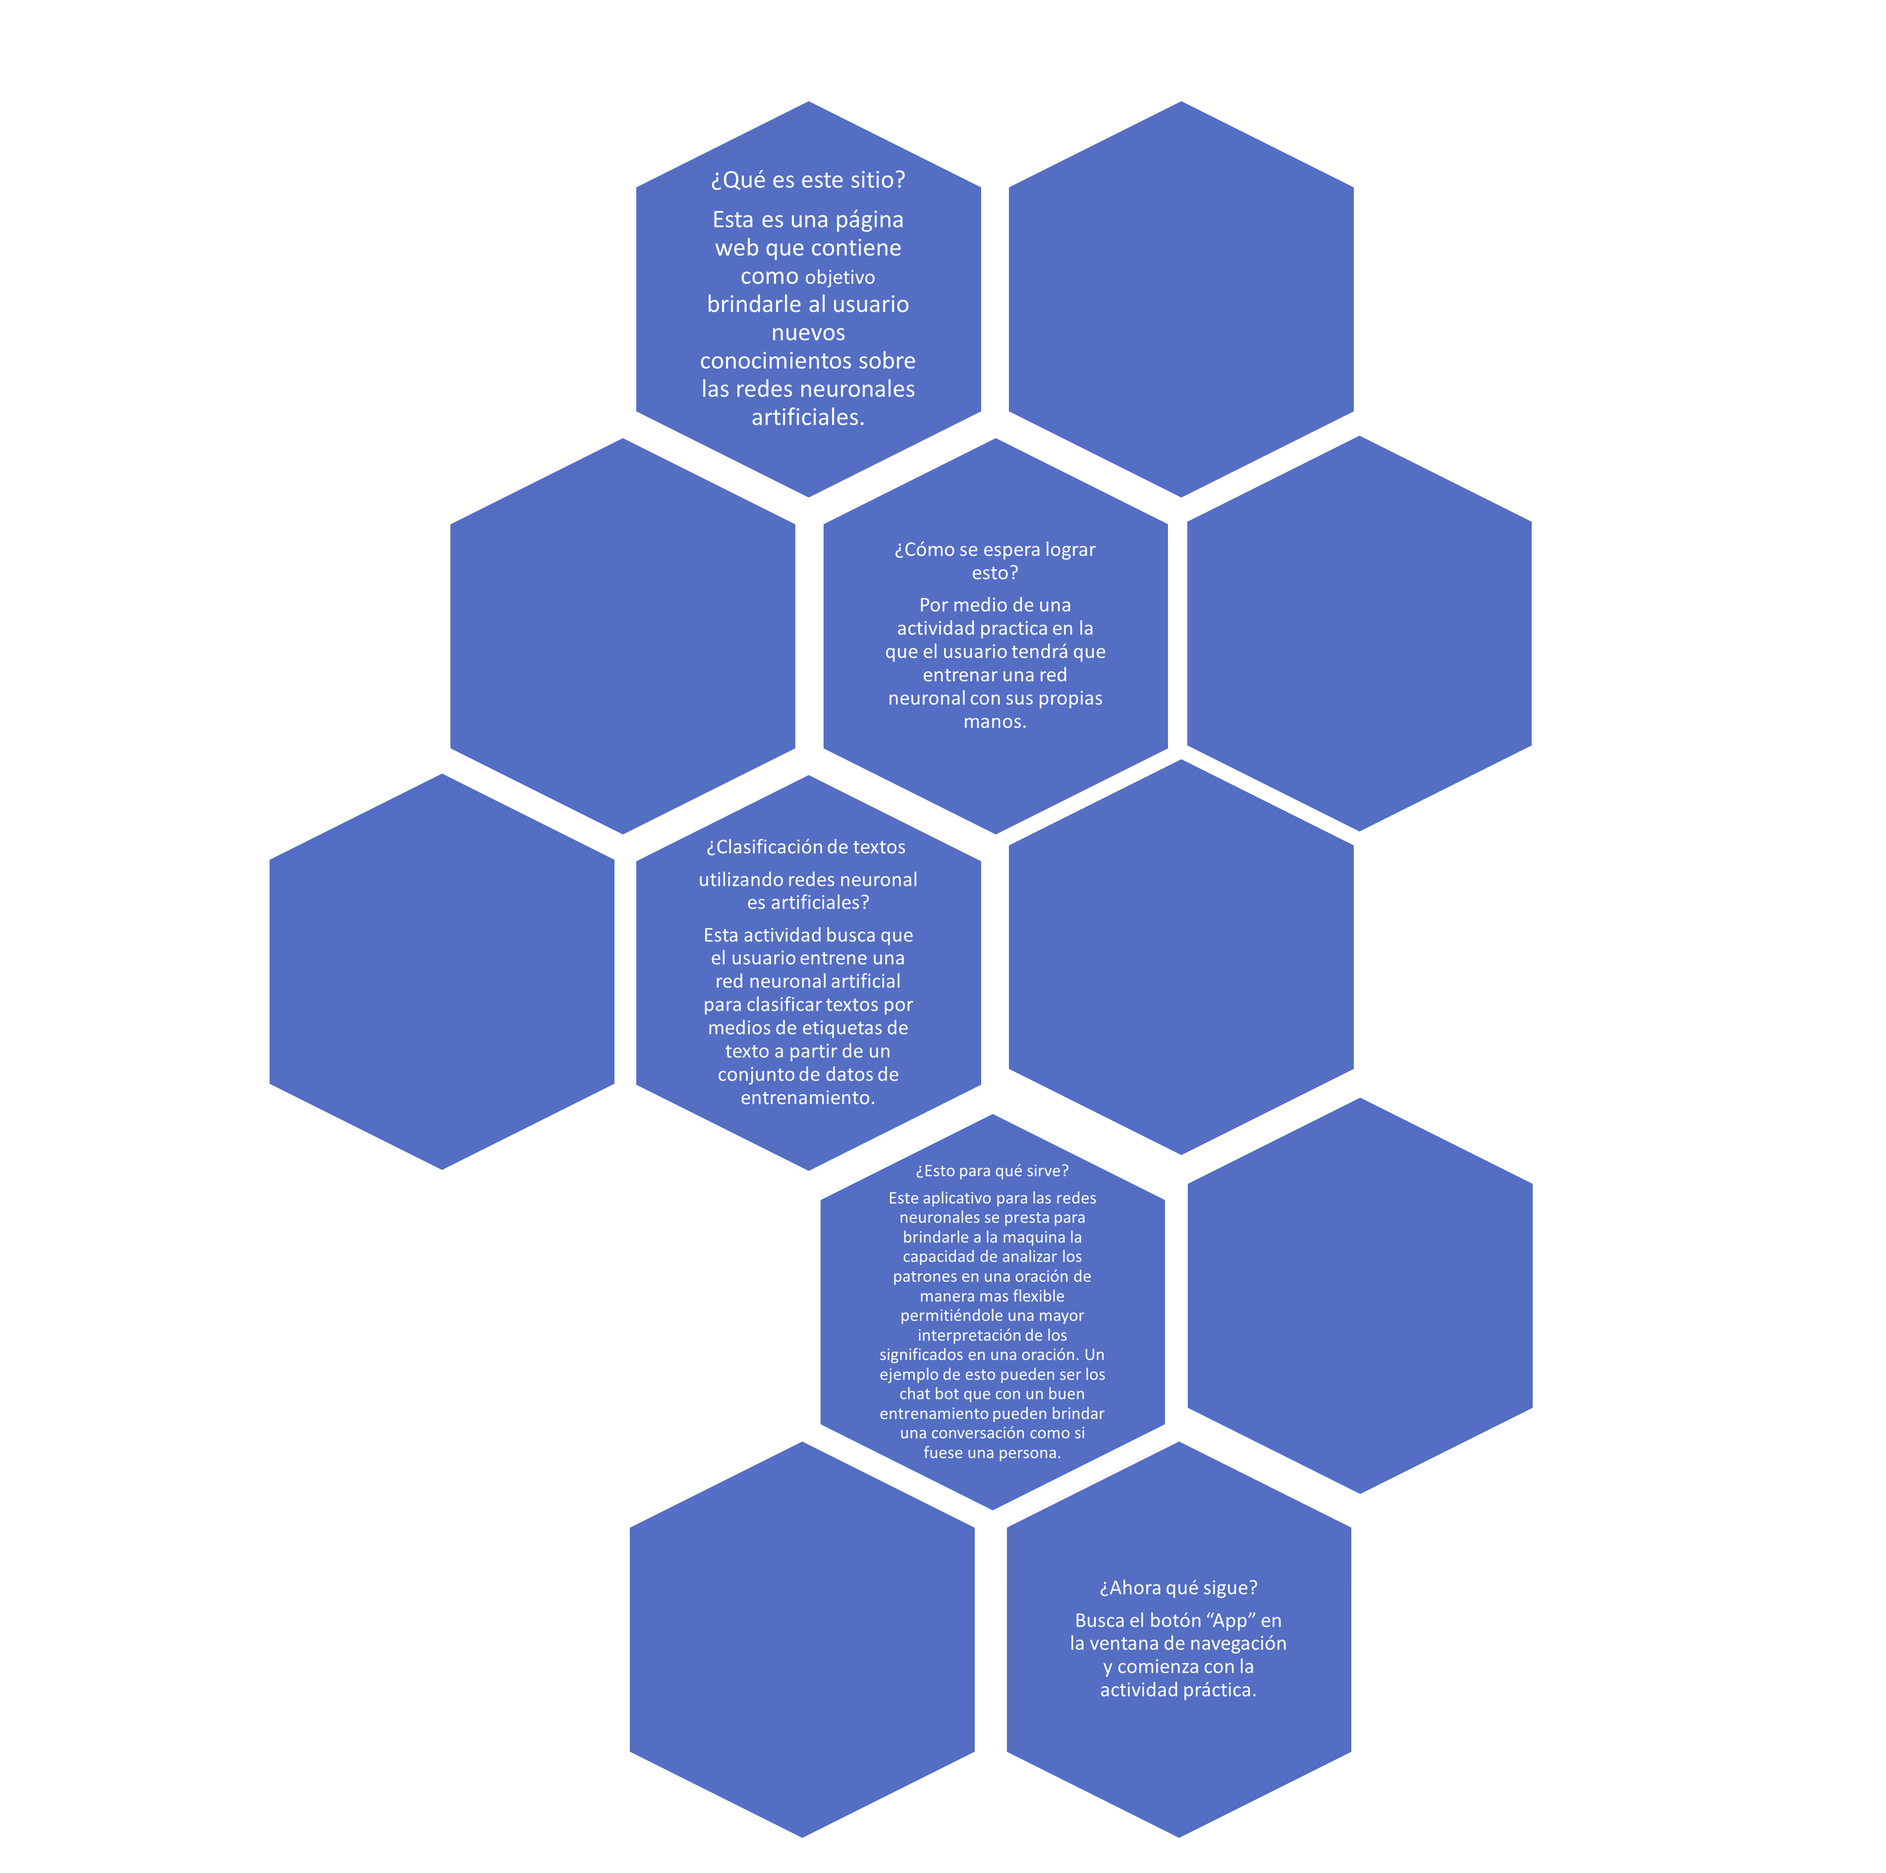
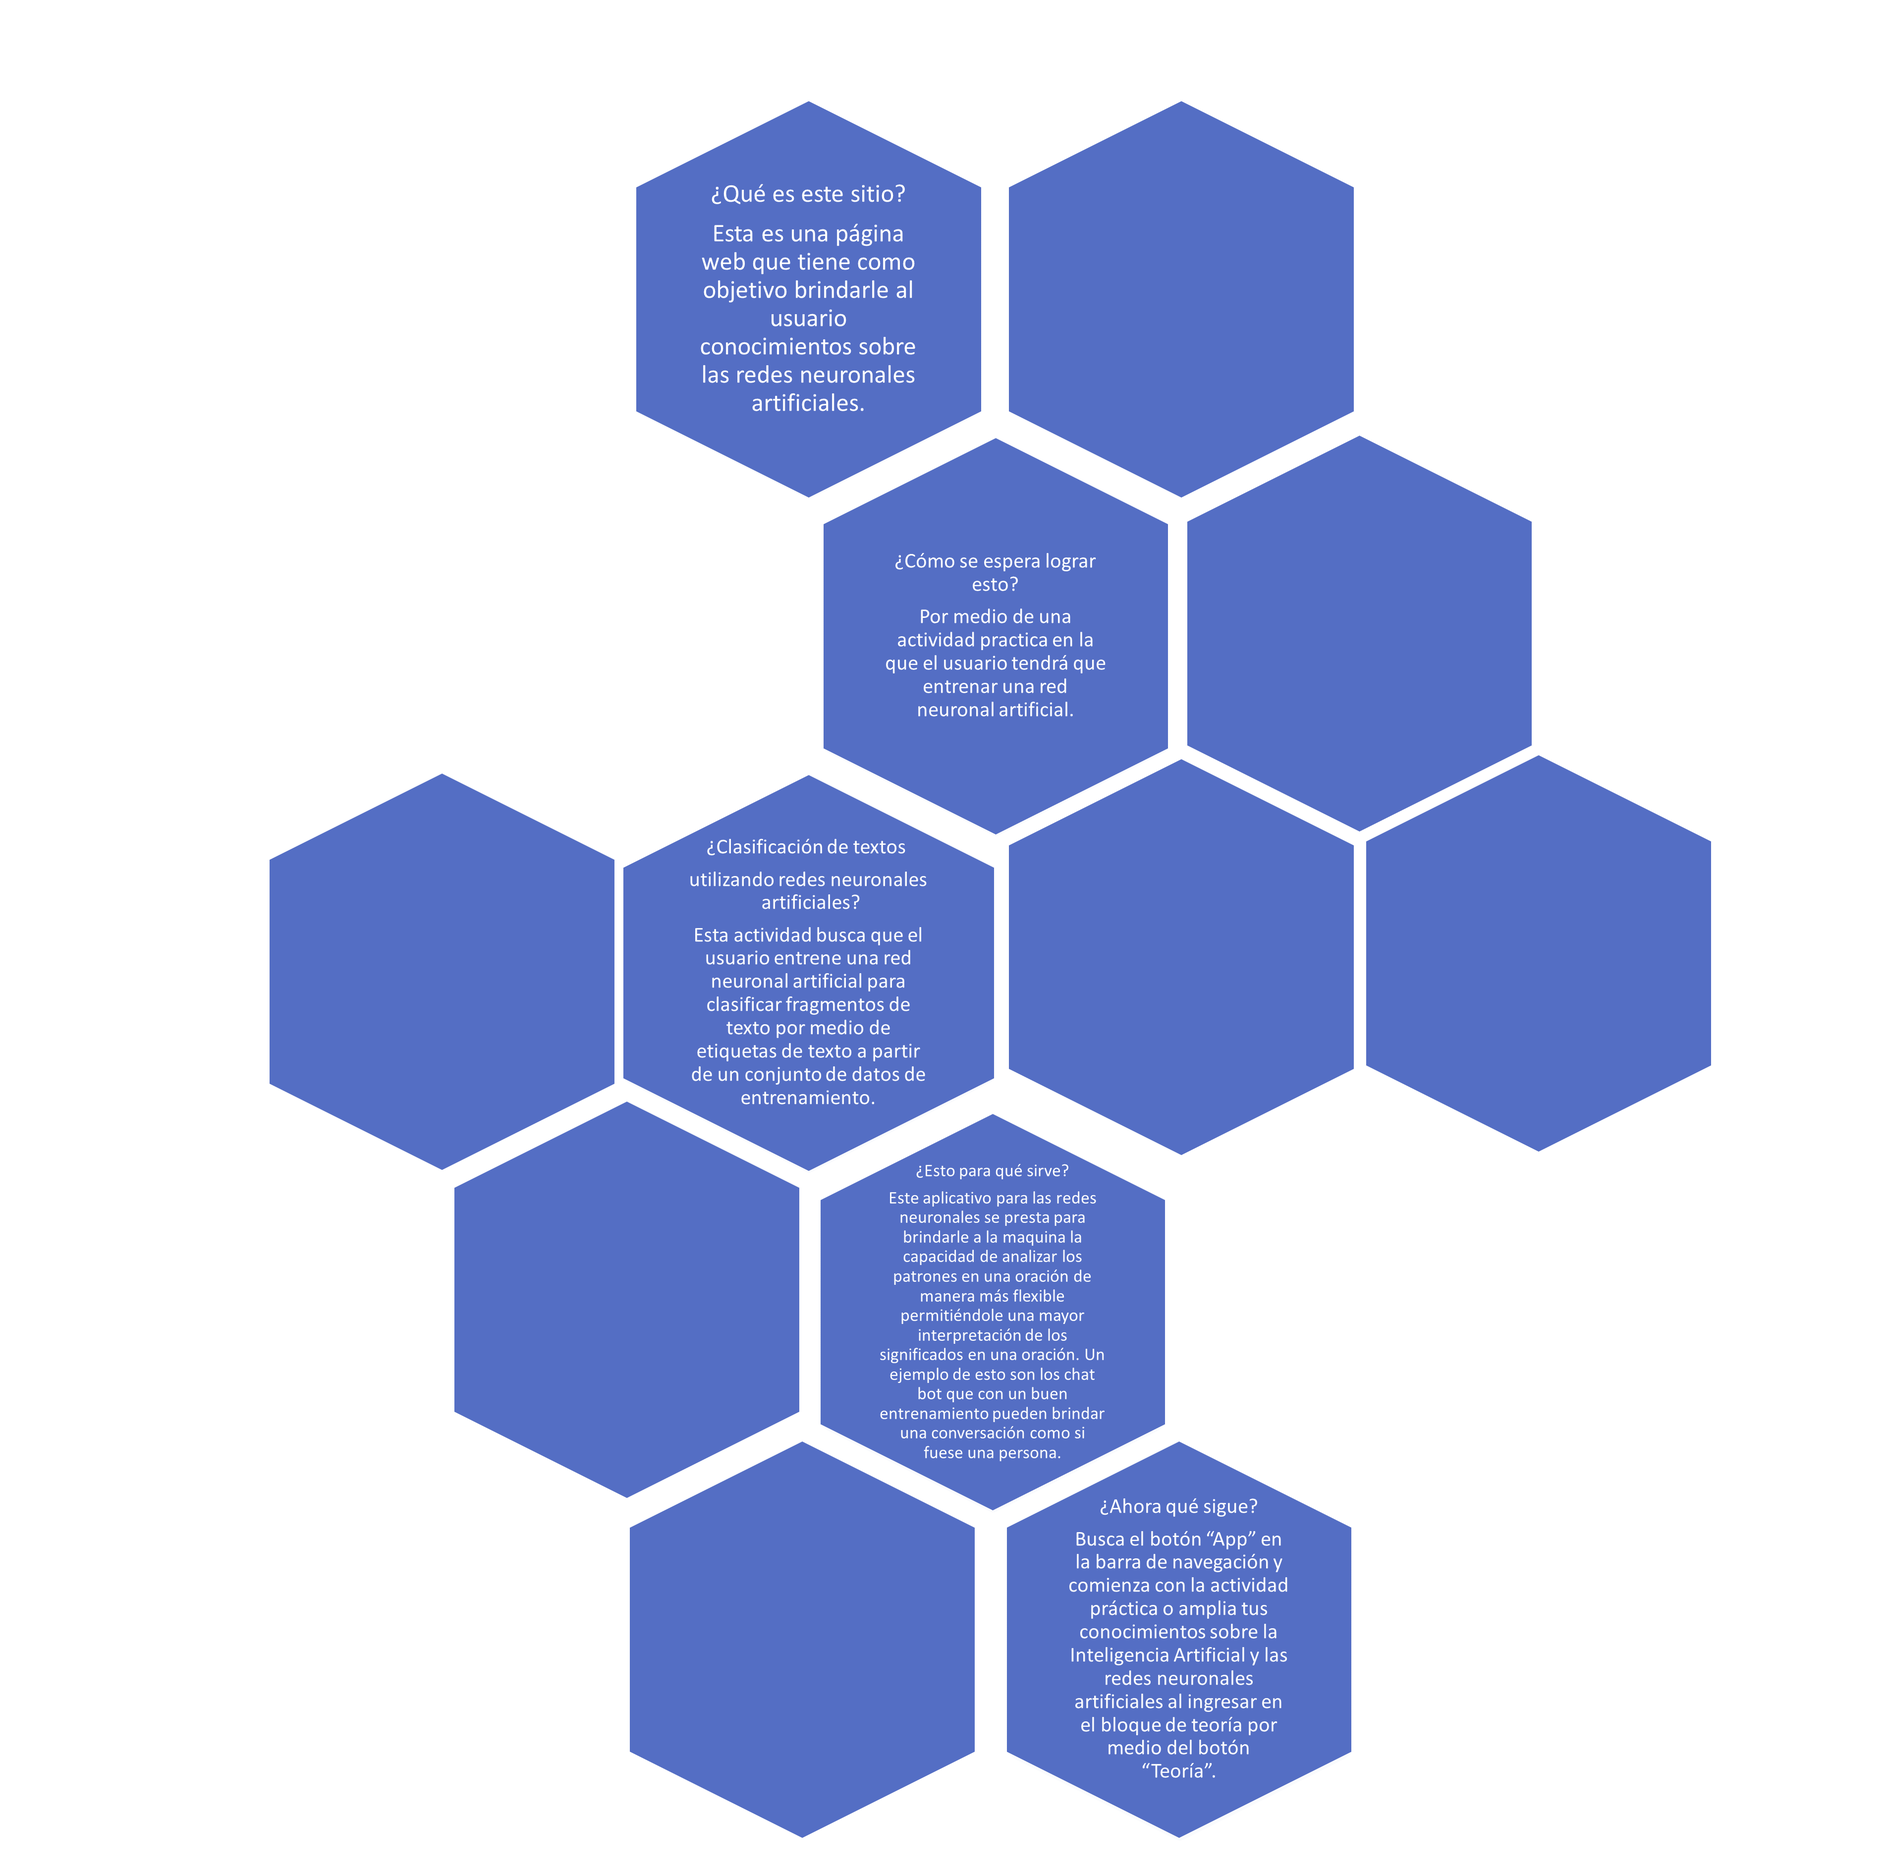
Add files via upload

diff --git a/index.html b/index.html
@@ -70,7 +70,7 @@
                     <br>1. En la casilla de texto escriba el nombre de la clase.
                     <br>2. Oprime el botón "agregar clase"
                     <br>
-                    <br>En la parte inferior de la aplicación se podrá observar la lista de las clases agregadas.
+                    <br>En la parte inferior de la ventana se podrá observar la lista de las clases agregadas.
                     <br>
                     <br>Oprime el botón situado en la parte inferior para continuar al siguiente paso.
                 </p>
@@ -109,12 +109,13 @@
                     <br>
                     <br>1. Ingresar un Texto(mínimo una palabra)en la casilla de texto.
                     <br>2. Selecciona la clase a la que se desea asignar.
-                    <br>3. Oprime el botón de "agregar texto" al lado izquierdo de la pestaña.
+                    <br>3. Oprime el botón de "Agregar texto" situado en la parte inferior de la ventana.
                     <br>
-                    <br>En la parte derecha de la aplicación se podrá observar la lista de los textos con su
+                    <br>En la parte derecha de la ventana se podrá observar la lista de los textos con su
                     respectiva clase asignada además de un botón para borrar el último texto agregada("Borrar Ultimo").
                     <br>
-                    <br>Oprime el botón situado en la parte inferior para continuar al siguiente paso.
+                    <br>Oprime el botón situado en la parte inferior derecha para continuar al siguiente paso o el boton
+                    situaado en la parte inferior izquierda para regresar al paso anterior.
                 </p>
             </div>
             <div class="pa">
@@ -170,7 +171,8 @@
                     <br>
                     <br>En todo momento se podrá observar el estado del entrenamiento.
                     <br>
-                    <br>Oprime el botón situado en la parte inferior para continuar al siguiente paso.
+                    <br>Oprime el botón situado en la parte inferior derecha para continuar al siguiente paso o el boton
+                    situaado en la parte inferior izquierda para regresar al paso anterior.
 
                 </p>
 
@@ -211,6 +213,8 @@
                     <br>
                     <br>En la parte inferior se podrá observar el resultado propuesto por la red neuronal asociado al
                     texto entregado.
+                    <br>Oprime el botón situado en la parte inferior para regresar al paso anterior.
+
 
                 </p>
             </div>
@@ -243,12 +247,17 @@
         <div class="indexx">
             <div class="d22">
                 <h4>Index</h4>
-                <p><a href="#t1">Que es una red neuronal artificial?</a></p>
-                <p><a href="#t3">Que es una “capa” en este contexto? </a></p>
-                <p><a href="#t2">Que es una neurona artificial? </a></p>
-                <p><a href="#t4">Como funciona una neurona artificial? </a></p>
-                <p><a href="#t5">Como se entrena una red neuronal? </a></p>
-                
+                <p><a href="#t-3">La Inteligencia Artificial: </a></p>
+                <p><a href="#t-2">¿Para qué hacer esto?</a></p>
+                <p><a href="#t-1">¿Esto cómo puede ayudar a la humanidad?</a></p>
+                <p><a href="#t0">¿Cómo dotar de “inteligencia” una maquina? </a></p>
+                <p><a href="#t1">¿Que es una red neuronal artificial?</a></p>
+                <p><a href="#t3">¿Que es una “capa” en este contexto? </a></p>
+                <p><a href="#t2">¿Que es una neurona artificial? </a></p>
+                <p><a href="#t4">¿Como funciona una neurona artificial? </a></p>
+                <p><a href="#t5">¿Como se entrena una red neuronal? </a></p>
+                <p><a href="#t6">¿Cómo utilizo las redes neuronales para clasificar textos?</a></p>
+
                 <p><a href="#tp">Deseas conocer mas? </a></p>
             </div>
         </div>
@@ -257,15 +266,39 @@
                 <h3 class="teoria_intro">Aumenta tu conocimiento sobre las redes neuronales artificiales</h3>
             </div>
             <div class="d2">
-
+                <h4 id="t-3" class="texto_info">La Inteligencia Artificial:</h4>
+                <p>La inteligencia artificial o IA por sus siglas en español es considerada un campo de estudio que
+                    busca dotar a las máquinas de “inteligencia”. Esta “inteligencia” hace referencia a la capacidad de
+                    la máquina para solucionar problemas o desempeñar actividades después pue un apropiado
+                    entrenamiento.</p>
+                <h4 id="t-2" class="texto_info">¿Para qué hacer esto?</h4>
+                <p>Con esto se busca brindarle a la maquina aquellas características que le permiten a los seres
+                    bilógicos tomar acciones lógicas de manera lógica e intuitiva y adaptables a su entorno. </p>
+                <h4 id="t-1" class="texto_info">¿Esto cómo puede ayudar a la humanidad?</h4>
+                <p>Dejando de lado las ideas salidas de los libros de ficción que proponen maquinas capaces de
+                    replicar completamente las capacidades de los seres biológicos, Los beneficios de poseer maquinas
+                    más intuitivas y adaptables son un campo actual de innovación y progreso. Refiriéndonos a “la
+                    maquina” no solo como un objeto físico sino también como un programa informático algunos ejemplos de
+                    las posibles aplicaciones de la IA en la vida cotidiana de una persona son los asistentes
+                    electrónicos implementados en los dispositivos inteligentes, los sistemas de predicción de
+                    fluctuaciones monetarias o predicción meteorológicas, vehículos capaces de conducirse de manera
+                    autónoma y sistemas de encriptación de la información. </p>
+                <h4 id="t0" class="texto_info">¿Cómo dotar de “inteligencia” una maquina?</h4>
+                <p>para intentar darle una respuesta apropiada a esta pregunta propone analizar la siguiente incógnita
+                    ¿De dónde proviene la “inteligencia” de un ser biológico? La respuesta a esta pregunta es el
+                    cerebro. Y si, la “inteligencia” proviene del cerebro en los seres biológicos ¿cómo funciona el
+                    cerebro de un ser biológico? Gracias a la red neuronal del que está compuesto el cerebro este le
+                    permite a los seres biológicos procesar la información de su entorno y tomar acciones acorde a dicha
+                    información. Del mismo modo se busca dotar a la máquina de “inteligencia” diseñando una red neuronal
+                    artificial que le permita a la maquina procesar la información de su “entorno”.</p>
                 <h4 id="t1" class="texto_info">Que es una red neuronal artificial?</h4>
                 <p>Una red neuronal artificial es un conjunto ordenado de capas conformadas por neuronas artificiales
                     conectadas entre si(capa de entrada, capas ocultas y capa de salida).</p>
-                    <img src="imagenes/Red neuronal.PNG" alt="">
+                <img src="imagenes/Red neuronal.PNG" alt="">
                 <h4 id="t3" class="texto_info">Que es una “capa” en este contexto? </h4>
                 <p>Una capa neuronal es un nivel de procesamiento conformado por un conjunto de neuronas ordenadas las
                     cuales comparten un mismo grupo de entradas. Estas capas neuronales generalmente se representan por
-                    un conjunto de unidades(neuronas) ordenadas en forma de vector o plano. </p>
+                    un conjunto de unidades(neuronas) ordenadas en forma de vector o plano.</p>
                 <h4 id="t2" class="texto_info">Que es una neurona artificial?</h4>
                 <p>Una neurona artificial es el nombre dado a cierto grupo de funciones matemáticas con una estructura
                     diseñada para emular el comportamiento de una neurona biológica.
@@ -273,11 +306,8 @@
                 <img src="imagenes/Neurona.PNG" width="750" height="390" alt="">
                 <h4 id="t4" class="texto_info">Como funciona una neurona artificial? </h4>
                 <p>La neurona artificial realiza el trabajo de procesar pequeñas cantidades de información numérica
-                    gracias a sus facultades matemáticas. Este funcionamiento es tan sencillo como validar una ecuación
-                    en un valor deseado. Se realiza la sumatoria de los valores de entrada multiplicados por los pesos
-                    sinápticos que les corresponde, al valor obtenido se le resta el valor del Umbral o Potencial
-                    de activación, por último, se evalúa el resultado obtenido en la función de activación propia de la neurona, dando como
-                    resultado final la respuesta de la neurona ante los valores de entrada propuestos. </p>
+                    gracias a sus facultades matemáticas. En el proceso de entrenamiento de una neurona esta modifica
+                    sus valores matemáticos acorde a lo que ve a su entrada y lo que se espera a su salida.</p>
                 <img src="imagenes/ECNeuronal.PNG" alt="">
                 <h4 id="t5" class="texto_info">Como se entrena una red neuronal artificial? </h4>
                 <p>Hay varios métodos para el entrenamiento de una red neuronal artificial, el método utilizado en esta
@@ -285,6 +315,12 @@
                     entrenamiento conformados por datos de entrada y datos de salida a partir de los cuales la red
                     neuronal modificara sus valores matemáticos internos poco a poco hasta lograr un resultado similar
                     al de los datos con los que fue entrenada. </p>
+                <h4 id="t6" class="texto_info">¿Cómo utilizo las redes neuronales para clasificar textos?</h4>
+                <p>Para lograr el procesamiento de textos por medio de redes neuronales artificiales es necesario dotar
+                    de un significado numérico las palabras que componen las entradas de texto a la red, ya que el
+                    significado textual de las palabras no puede ser procesado por una red, ya con la conversión
+                    realizada la red neuronal podrá procesar sin ningún tipo de problema analizando las magnitudes o
+                    patrones numéricos de cada entrada y dando una respuesta apropiada a esta. </p>
                 <br>
                 <br>
                 <br>
@@ -308,14 +344,19 @@
                 <h4 id="t1">Profundiza mas estos conocimientos: </h4>
                 <h4>Bibliografia</h4>
                 <p>Algunos loibros sobre inteligencia artificial y redes neuronales artificiales:</p>
-                <p>Una aproximación practica a las redes neuronales artificiales. Por: CAICEDO, Eduardo Francisco. LÓPEZ, Jesús Alfonso. </p>
+                <p>Una aproximación practica a las redes neuronales artificiales. Por: CAICEDO, Eduardo Francisco.
+                    LÓPEZ, Jesús Alfonso. </p>
                 <p>Pro Deep Learning with Tensorflow. Por: PATTANAYAK. Santanu. </p>
                 <p>DEEP LEARNING with Python. Por: CHOLLET. Francois. </p>
                 <h4>Paginas web</h4>
                 <p>Mas actividades relacionadas con la inteligencia artificial:</p>
-                <p>Machine learning for kids : <a href="https://machinelearningforkids.co.uk/" target="_blank">https://machinelearningforkids.co.uk/</a></p>
-                <p>Playground Tensorflow : <a href="https://playground.tensorflow.org" target="_blank">https://playground.tensorflow.org</a></p>
-                <p>Tensorflow for poets : <a href="https://codelabs.developers.google.com/codelabs/tensorflow-for-poets/#0" target="_blank">https://codelabs.developers.google.com/codelabs/tensorflow-for-poets/#0</a></p>
+                <p>Machine learning for kids : <a href="https://machinelearningforkids.co.uk/"
+                        target="_blank">https://machinelearningforkids.co.uk/</a></p>
+                <p>Playground Tensorflow : <a href="https://playground.tensorflow.org"
+                        target="_blank">https://playground.tensorflow.org</a></p>
+                <p>Tensorflow for poets : <a
+                        href="https://codelabs.developers.google.com/codelabs/tensorflow-for-poets/#0"
+                        target="_blank">https://codelabs.developers.google.com/codelabs/tensorflow-for-poets/#0</a></p>
                 <p>Cognimates : <a href="http://cognimates.me/home/" target="_blank">http://cognimates.me/home/</a></p>
             </div>
 

diff --git a/css/estl1.css b/css/estl1.css
@@ -361,5 +361,8 @@ section::before{
     justify-content: center;
 }
 .d22{
+    padding-top: 50px;
     width: 200px;
+    overflow-y: auto;
+    overflow-x: hidden;
 }
